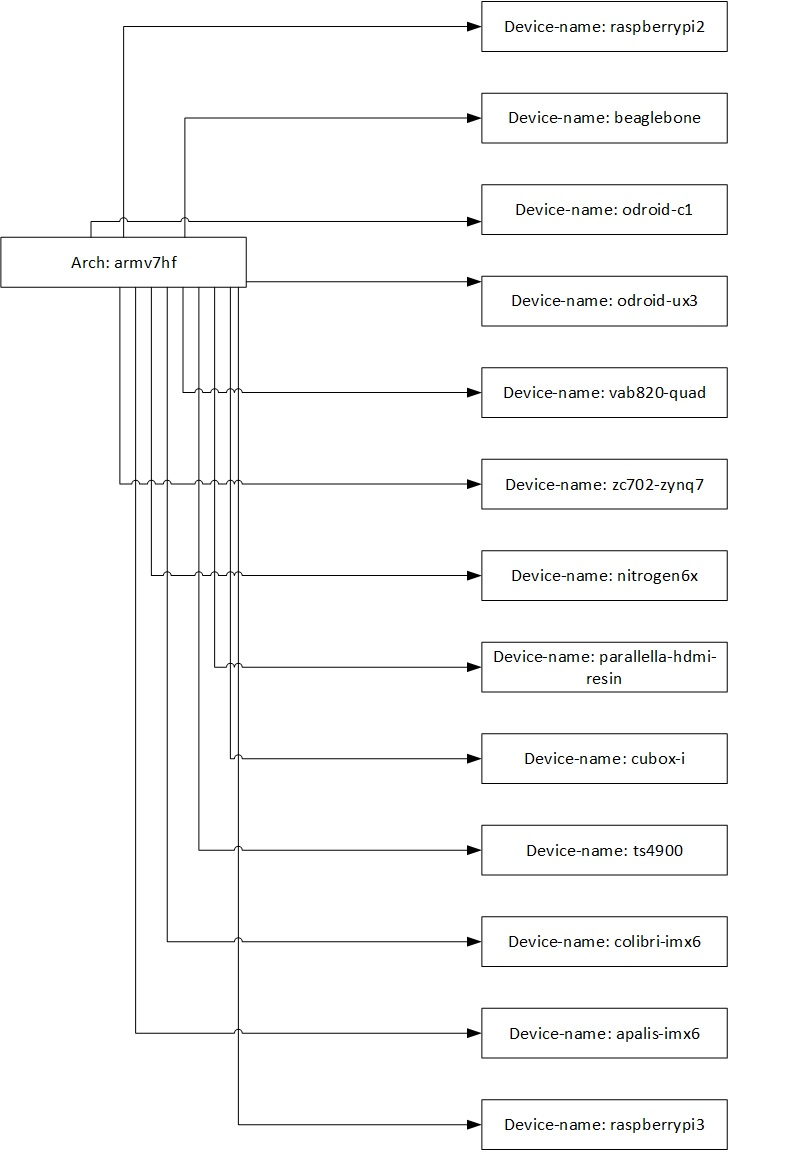
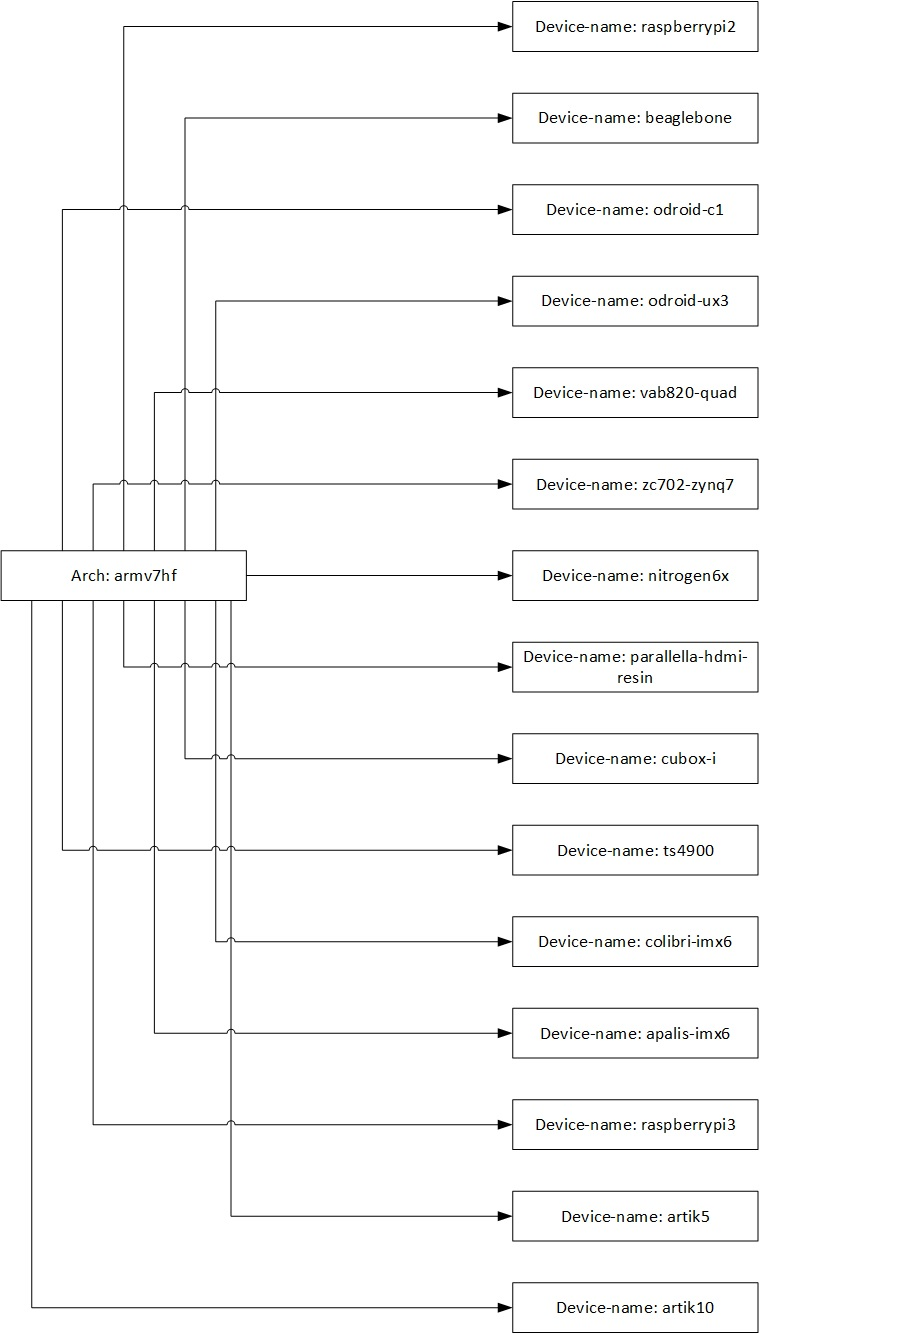
Add Artik 5 and Artik10 to base image wiki

diff --git a/pages/runtime/resin-base-images.md b/pages/runtime/resin-base-images.md
@@ -160,6 +160,23 @@ __Note:__ all the node slim images use resin/raspberrypi-systemd as the base os.
 | resin/colibri-imx6-python | [dockerhub][armv7-colibri-imx6-python-dockerhub-link], [github][armv7-colibri-imx6-python-github-link] | latest, jessie, wheezy |
 | resin/colibri-imx6-golang | [dockerhub][armv7-colibri-imx6-golang-dockerhub-link], [github][armv7-colibri-imx6-golang-github-link] | For available image tags, refer [here][armv7-colibri-imx6-golang-dockerhub-tag-link] |
 
+##### Samsung Artik 5
+| Image | Links | Available Tag |
+|:-----------|:------------|:------------|
+| resin/artik5-debian | [dockerhub][armv7-artik5-dockerhub-link], [github][armv7-artik5-github-link] | latest, jessie, wheezy |
+| resin/artik5-buildpack-deps | [dockerhub][armv7-artik5-buildpack-deps-dockerhub-link], [github][armv7-artik5-buildpack-deps-github-link] | latest, jessie, wheezy, jessie-scm, wheezy-scm, jessie-curl, wheezy-curl |
+| resin/artik5-node | [dockerhub][armv7-artik5-node-dockerhub-link], [github][armv7-artik5-node-github-link] | For available image tags, refer [here][armv7-artik5-node-dockerhub-tag-link] |
+| resin/artik5-python | [dockerhub][armv7-artik5-python-dockerhub-link], [github][armv7-artik5-python-github-link] | latest, jessie, wheezy |
+| resin/artik5-golang | [dockerhub][armv7-artik5-golang-dockerhub-link], [github][armv7-artik5-golang-github-link] | For available image tags, refer [here][armv7-artik5-golang-dockerhub-tag-link] |
+
+##### Samsung Artik 10
+| Image | Links | Available Tag |
+|:-----------|:------------|:------------|
+| resin/artik10-debian | [dockerhub][armv7-artik10-dockerhub-link], [github][armv7-artik10-github-link] | latest, jessie, wheezy |
+| resin/artik10-buildpack-deps | [dockerhub][armv7-artik10-buildpack-deps-dockerhub-link], [github][armv7-artik10-buildpack-deps-github-link] | latest, jessie, wheezy, jessie-scm, wheezy-scm, jessie-curl, wheezy-curl |
+| resin/artik10-node | [dockerhub][armv7-artik10-node-dockerhub-link], [github][armv7-artik10-node-github-link] | For available image tags, refer [here][armv7-artik10-node-dockerhub-tag-link] |
+| resin/artik10-python | [dockerhub][armv7-artik10-python-dockerhub-link], [github][armv7-artik10-python-github-link] | latest, jessie, wheezy |
+| resin/artik10-golang | [dockerhub][armv7-artik10-golang-dockerhub-link], [github][armv7-artik10-golang-github-link] | For available image tags, refer [here][armv7-artik10-golang-dockerhub-tag-link] |
 
 ### i386: Intel Edison
 
@@ -509,6 +526,30 @@ This image does not contain the common packages contained in the default tag and
 [armv7-rpi3-golang-dockerhub-link]:https://registry.hub.docker.com/u/resin/raspberrypi3-golang/
 [armv7-rpi3-golang-dockerhub-tag-link]:https://registry.hub.docker.com/u/resin/raspberrypi3-golang/tags/manage/
 [armv7-rpi3-golang-github-link]:https://github.com/resin-io-library/base-images/tree/master/golang/raspberrypi3
+[armv7-artik5-dockerhub-link]:https://registry.hub.docker.com/u/resin/artik5-debian/
+[armv7-artik5-buildpack-deps-dockerhub-link]:https://registry.hub.docker.com/u/resin/artik5-buildpack-deps/
+[armv7-artik5-node-dockerhub-link]:https://registry.hub.docker.com/u/resin/artik5-node/
+[armv7-artik5-node-dockerhub-tag-link]:https://registry.hub.docker.com/u/resin/artik5-node/tags/manage/
+[armv7-artik5-python-dockerhub-link]:https://registry.hub.docker.com/u/resin/artik5-python/
+[armv7-artik5-github-link]:https://github.com/resin-io-library/base-images/tree/master/device-base/artik5
+[armv7-artik5-buildpack-deps-github-link]:https://github.com/resin-io-library/base-images/tree/master/buildpack-deps/artik5
+[armv7-artik5-node-github-link]:https://github.com/resin-io-library/base-images/tree/master/node/artik5
+[armv7-artik5-python-github-link]:https://github.com/resin-io-library/base-images/tree/master/python/artik5
+[armv7-artik5-golang-dockerhub-link]:https://registry.hub.docker.com/u/resin/artik5-golang/
+[armv7-artik5-golang-dockerhub-tag-link]:https://registry.hub.docker.com/u/resin/artik5-golang/tags/manage/
+[armv7-artik5-golang-github-link]:https://github.com/resin-io-library/base-images/tree/master/golang/artik5
+[armv7-artik10-dockerhub-link]:https://registry.hub.docker.com/u/resin/artik10-debian/
+[armv7-artik10-buildpack-deps-dockerhub-link]:https://registry.hub.docker.com/u/resin/artik10-buildpack-deps/
+[armv7-artik10-node-dockerhub-link]:https://registry.hub.docker.com/u/resin/artik10-node/
+[armv7-artik10-node-dockerhub-tag-link]:https://registry.hub.docker.com/u/resin/artik10-node/tags/manage/
+[armv7-artik10-python-dockerhub-link]:https://registry.hub.docker.com/u/resin/artik10-python/
+[armv7-artik10-github-link]:https://github.com/resin-io-library/base-images/tree/master/device-base/artik10
+[armv7-artik10-buildpack-deps-github-link]:https://github.com/resin-io-library/base-images/tree/master/buildpack-deps/artik10
+[armv7-artik10-node-github-link]:https://github.com/resin-io-library/base-images/tree/master/node/artik10
+[armv7-artik10-python-github-link]:https://github.com/resin-io-library/base-images/tree/master/python/artik10
+[armv7-artik10-golang-dockerhub-link]:https://registry.hub.docker.com/u/resin/artik10-golang/
+[armv7-artik10-golang-dockerhub-tag-link]:https://registry.hub.docker.com/u/resin/artik10-golang/tags/manage/
+[armv7-artik10-golang-github-link]:https://github.com/resin-io-library/base-images/tree/master/golang/artik10
 
 [i386-systemd-dockerhub-link]:https://registry.hub.docker.com/u/resin/i386-systemd/
 [i386-systemd-github-link]:https://github.com/resin-io-library/base-images/tree/master/systemd/i386
